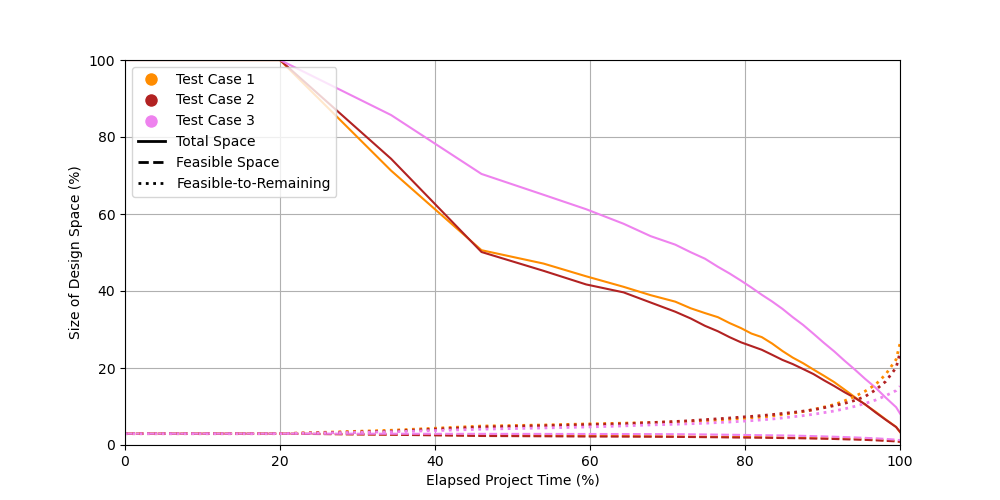
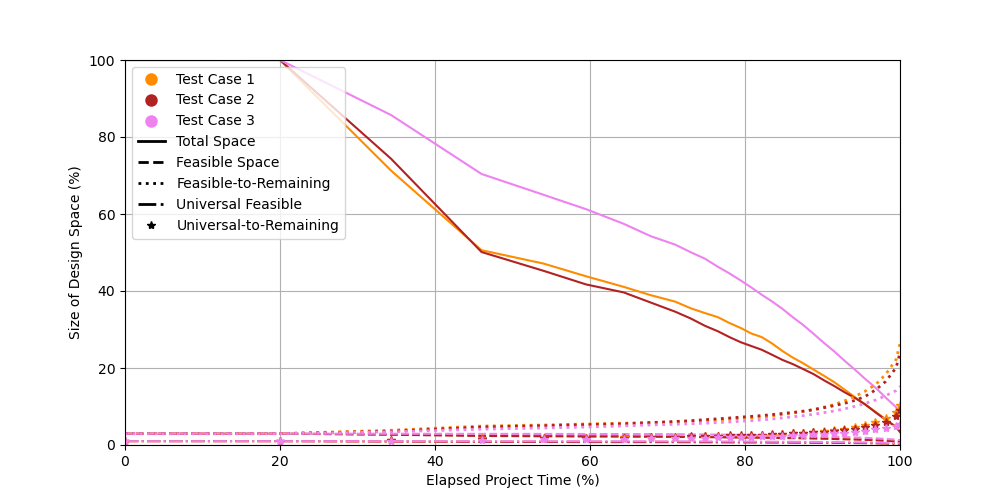
Updated all results!

Changed region(s): [[0.124, 0.81, 0.899, 0.9], [0.124, 0.39, 0.341, 0.48]]

diff --git a/Python Code/Simulation_Results/plot_data.py b/Python Code/Simulation_Results/plot_data.py
@@ -115,7 +115,7 @@ def plotDisciplines(all_disciplines_data, feas1_disciplines_data,
     """
     
     # Initialize colors, line styles, and markers
-    colors = ['darkorange', 'firebrick', 'violet']
+    colors = ['darkorange', 'firebrick', 'violet', 'darkgreen']
     line_styles = ['-', '--', ':', '-.', 'None']
     markers = ['', '', '', '', '*']
     data_groups = ['Total Space', 'Feasible Space', 'Feasible-to-Remaining',
